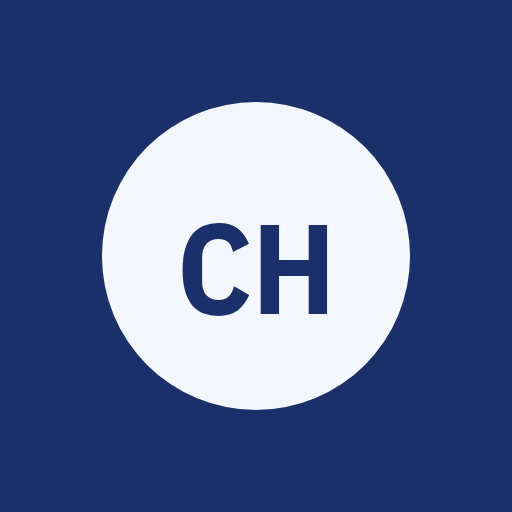
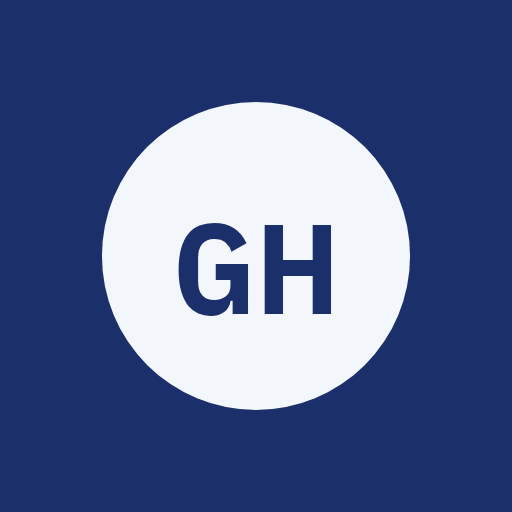
George B. Chapman Plumbing & Heating: plumbing prospect site (template v2)

Changed region(s): [[0.3438, 0.4375, 0.5625, 0.625], [0.5938, 0.4375, 0.6562, 0.625]]

diff --git a/testing/imported-apps/chapman-george-b-plumbing-heating/routes.js b/testing/imported-apps/chapman-george-b-plumbing-heating/routes.js
@@ -132,12 +132,15 @@ module.exports = function (services) {
   const { b, t, lang } = res.locals;
   const sp = spots(b, lang);
   const top = b.visible.slice(0, 4).map(s => s.name[lang]);
-  const h1 = b.emergency ? t.h1Always : t.h1[(b.headline || 0) % t.h1.length];
+  // A name over 32 characters would stack the brand variant 6–7 lines beside the cutaway.
+  const pick = (b.headline || 0) % t.h1.length;
+  const h1 = b.emergency ? t.h1Always : t.h1[t.h1[pick].includes('{brand}') && b.brand_name.length > 32 ? 1 : pick];
   // The title sizes itself so its longest word fits the column (--hero-chars, styles.css); on
   // phones it is sized by the longest hyphen segment and a long town breaks at a hyphen.
   // Plain text only: the inline editor rewrites a heading that holds a single text node.
-  const heading = fmt(h1, { city: b.city, brand: b.brand_name });
-  const words = heading.split(/\s+/);
+  // « St. Albert » never breaks after the abbreviation; the pair is sized as one word.
+  const heading = fmt(h1, { city: b.city.replace(/\b(St|Ste|Mt)\. /g, '$1.\u00a0'), brand: b.brand_name });
+  const words = heading.split(/ +/);
   Object.assign(res.locals, {
    page: 'home', active: 'home', other: other(lang, 'home'), spots: sp,
    h1: heading, heroChars: Math.max(8, ...words.map(w => w.length)),
